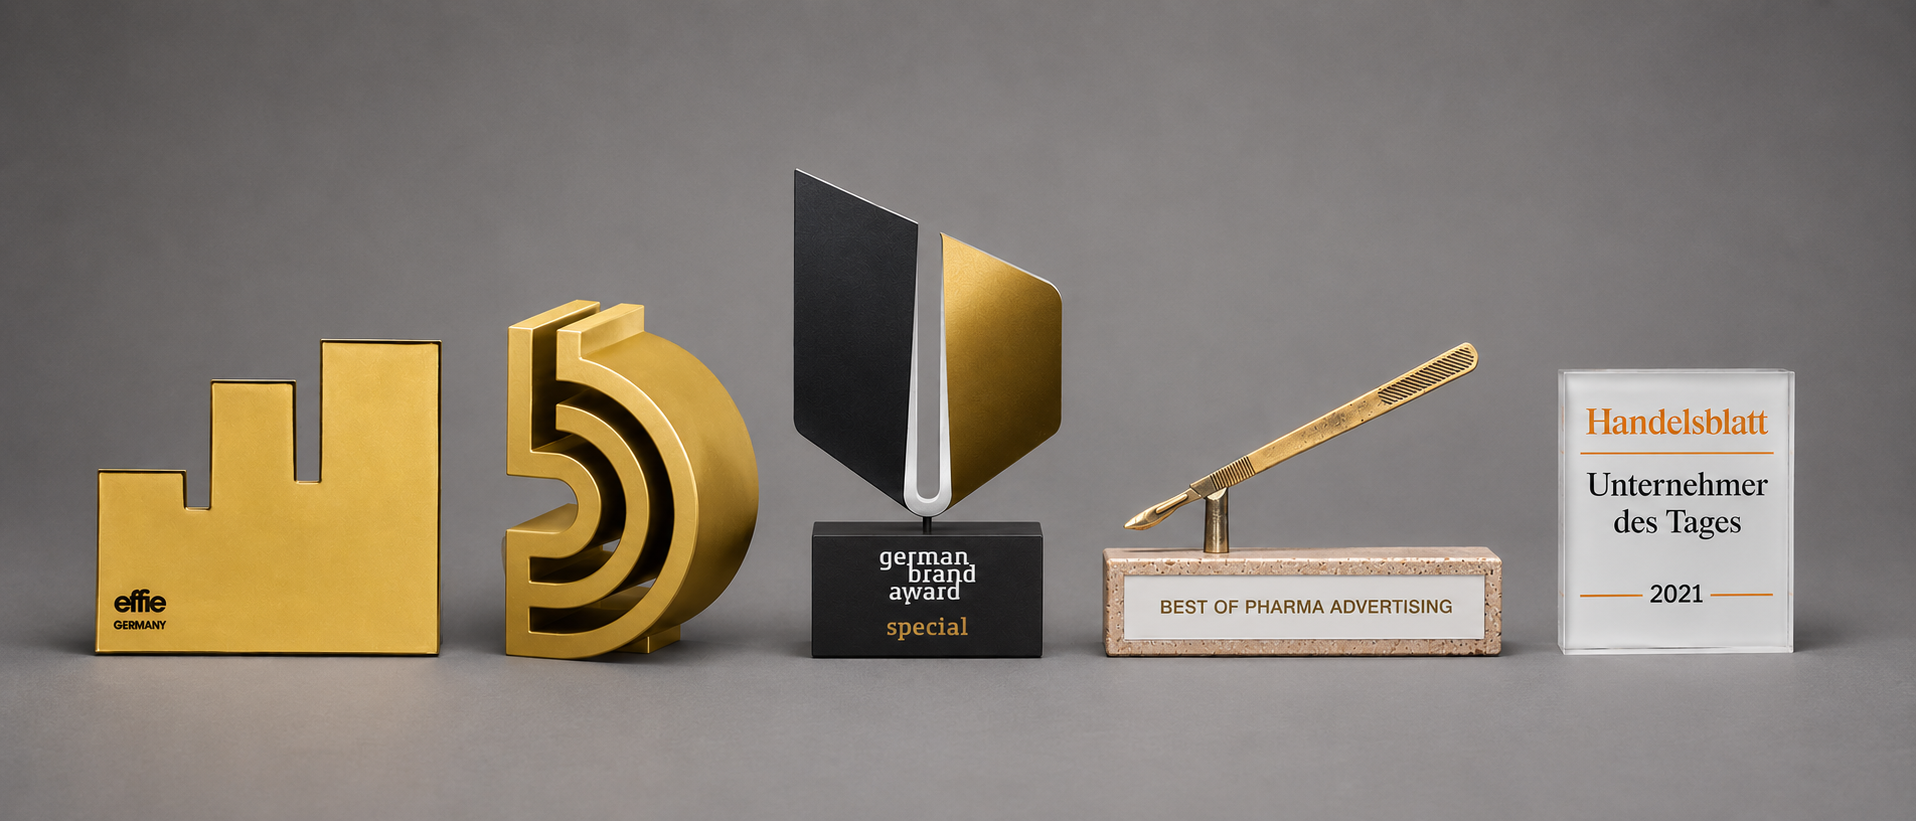
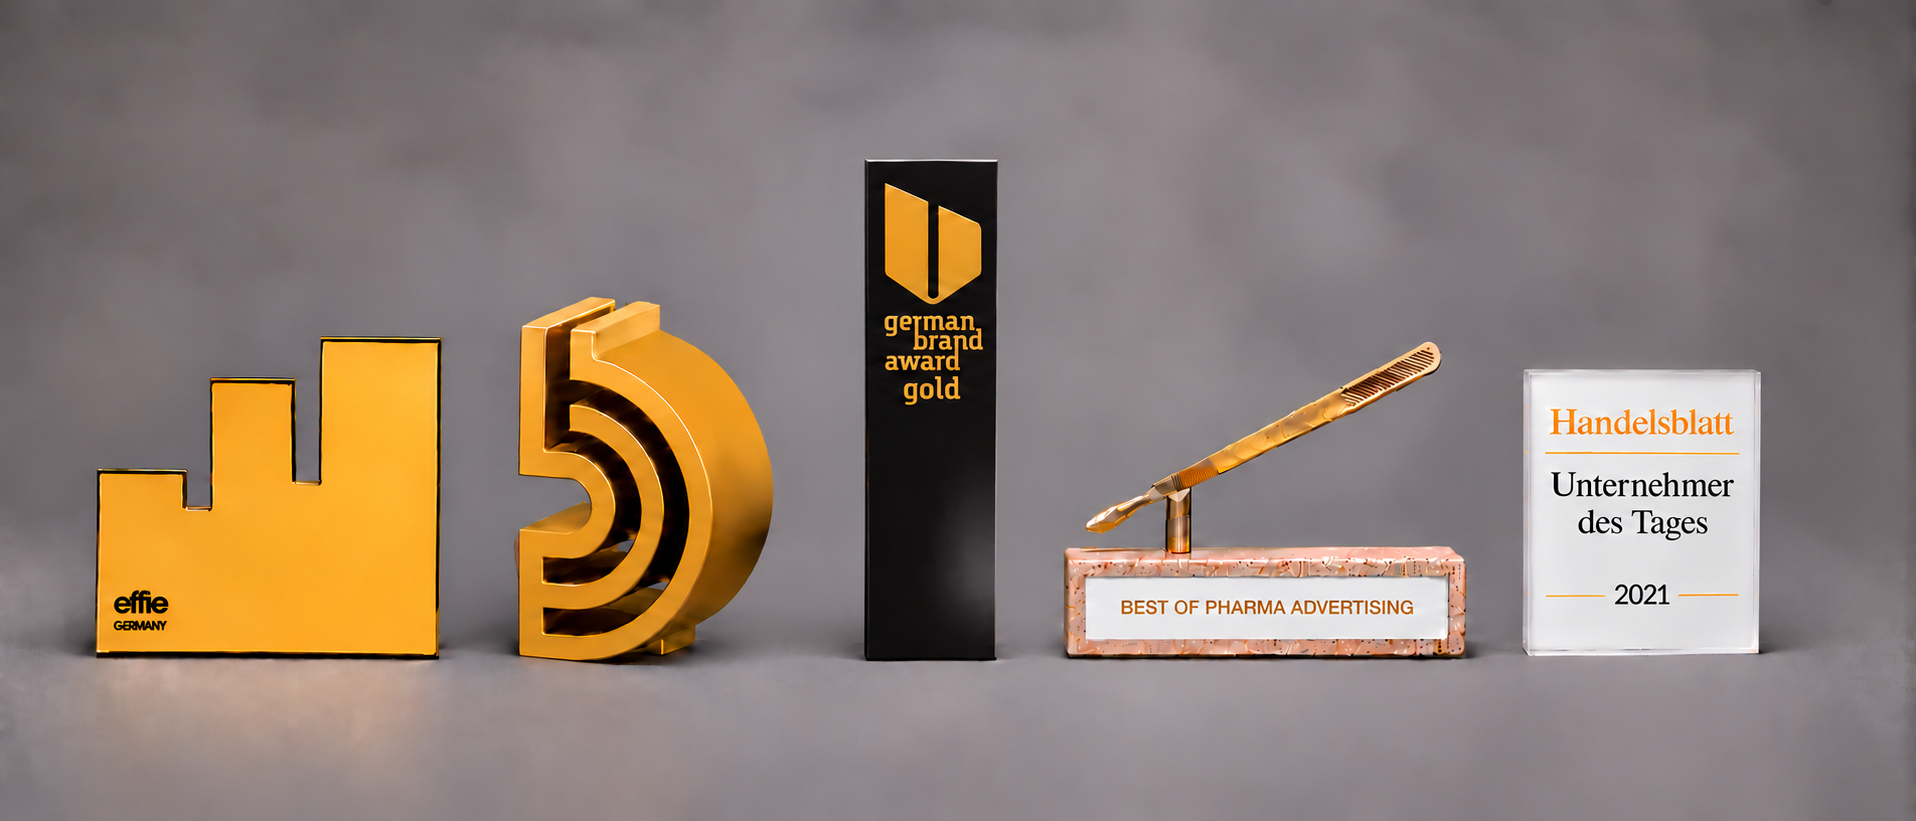
Award-Bild aktualisiert.

Changed region(s): [[0.0, 0.1827, 0.9854, 0.8831], [0.0924, 0.1218, 0.1232, 0.1523]]

diff --git a/index.html b/index.html
@@ -825,7 +825,7 @@
     <h2>Prämiert für wirksame Marken- und Wachstumsarbeit.</h2>
     <picture>
       <source media="(max-width: 760px)" srcset="images/Bild%20Awards%20mobile%20neu.png">
-      <img src="images/Bild%20Awards%20f%C3%BCr%20Website%202.png" alt="Auszeichnungen">
+      <img src="images/Bild%20Awards%20f%C3%BCr%20Website%202.png?v=20261024-5" alt="Auszeichnungen">
     </picture>
   </div>
 </section>
